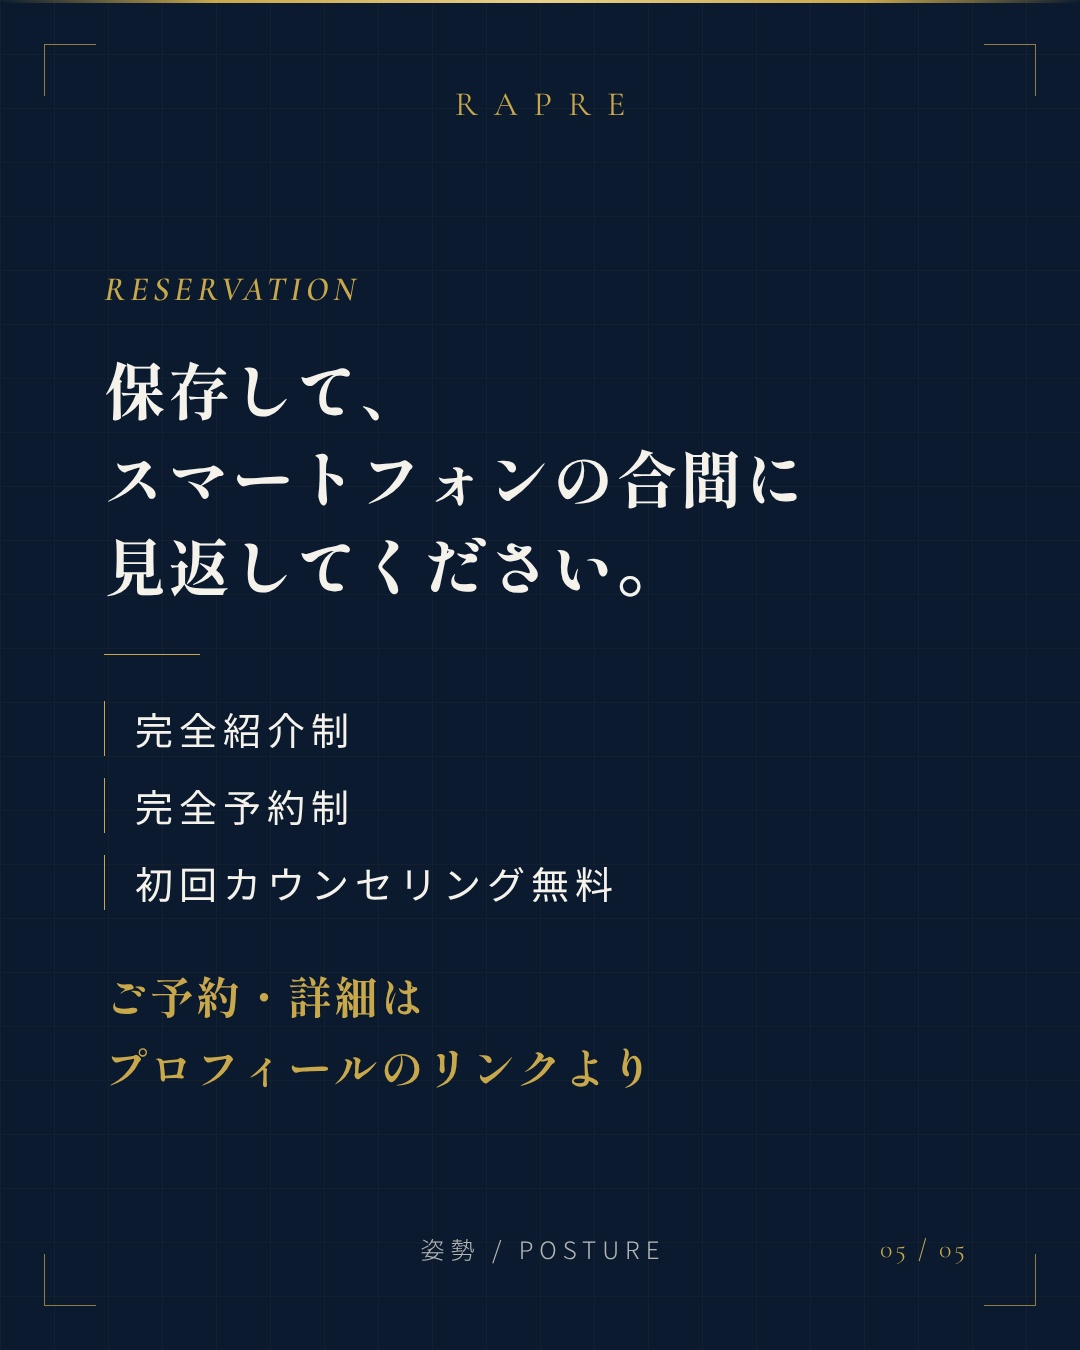
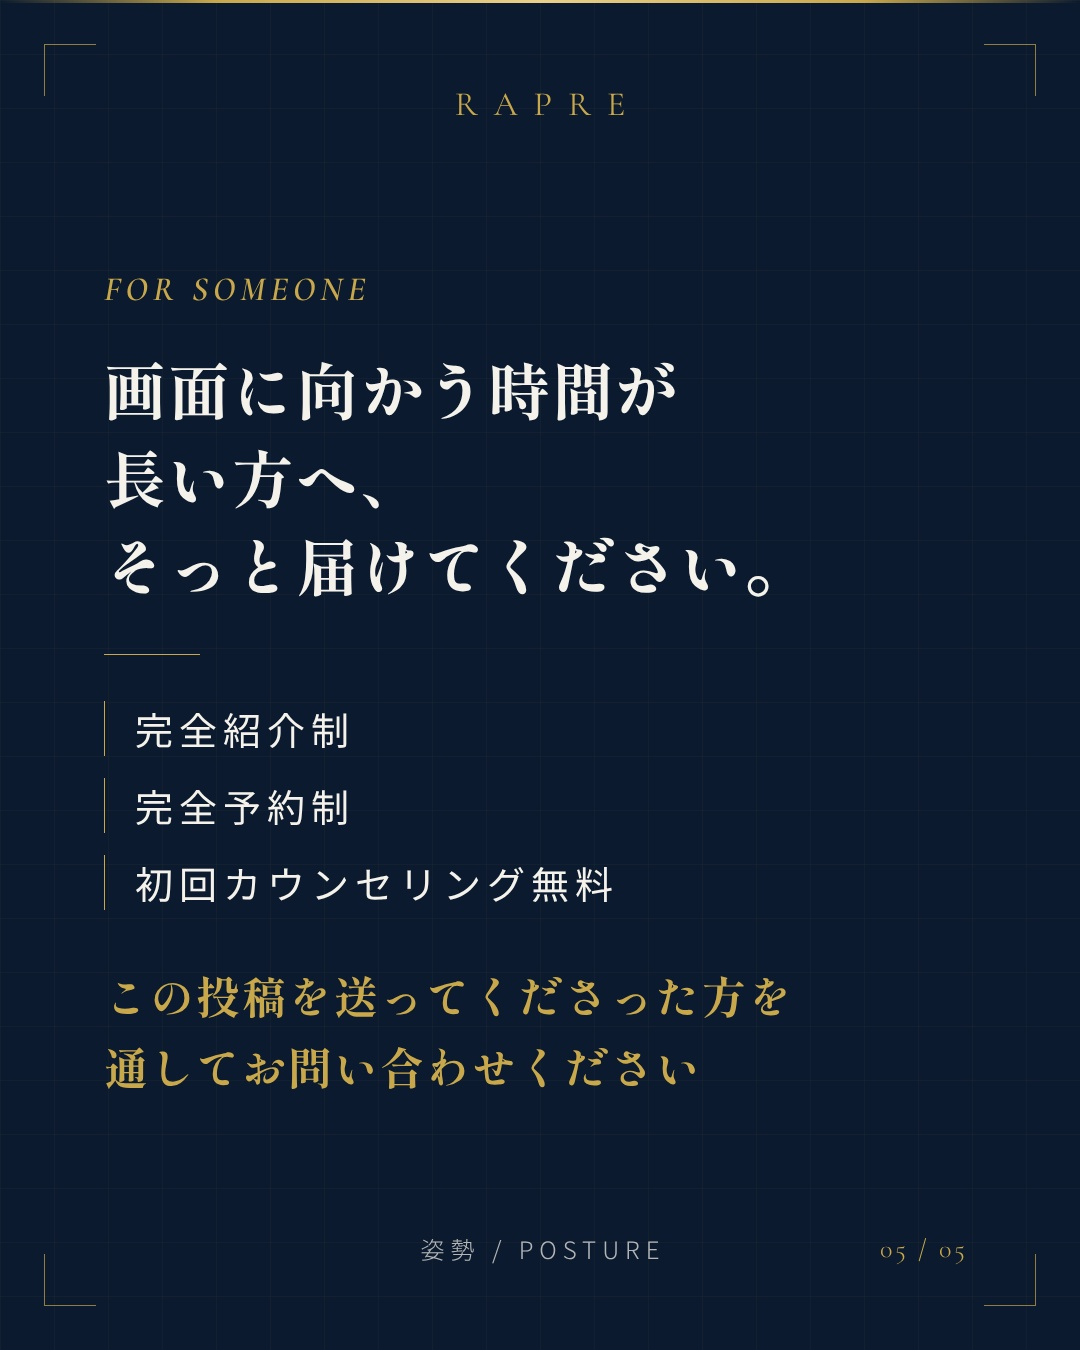
紹介を増やす構成へ変更: 月20時カルーセル/木20時リール、紹介カード、検査スクリプト
Claude-Session: https://claude.ai/code/session_019u1u4bunc16dMiAvHHNoWE

diff --git a/automation/rapre.md b/automation/rapre.md
@@ -1,10 +1,19 @@
 # Rapre Instagram 自動投稿 手順書
 
 この手順書は、無人の定期実行が毎回読み、次の投稿枠1回分を生成・予約するためのものです。
+（2026-10-13改定：既存のお客様からのご紹介を増やす構成へ変更）
+
+## 0. このアカウントの目的
+- Rapreは完全紹介制。投稿の役割は「通ってくださっているお客様が、大切な方にDMで送る紹介状」になること。
+- そのため、評価する指標は いいね ではなく、1投稿ごとの シェア÷リーチ、保存÷リーチ、3秒視聴率、フォロー数。
+- 制作の最初に「この投稿を、誰に送ってもらうか」（send_to）を1つ決め、1枚目（1コマ目）はその人の顔が浮かぶ一文にする。
+  例：夕方に肩が上がっている同僚へ／子どもの寝かしつけの後に疲れ切っている友人へ。
 
 ## 1. 投稿枠
-- 毎週 月曜 08:00 と 木曜 21:00（Asia/Tokyo）。
-- 1枠につき3件を同時刻に予約する: 通常投稿（カルーセル5枚）、リール、ストーリーズ。
+- 月曜 20:00：通常投稿（カルーセル5枚）＋ストーリーズ（新着のお知らせ1枚）
+- 木曜 20:00：リール（7〜12秒）＋ストーリーズ（新着のお知らせ1枚）
+- 1枠で同じ内容を複数の形式に重ねて出さない（初動の反応が分散するため）。
+- 投稿時刻は 2026-10-19 から4週間（8本）20:00 で試し、その後に結果で見直す。
 - カテゴリーは次の順で1枠ごとに進める（6枠で1巡）:
   美肌 → 化粧品 → 姿勢 → 健康 → 食事 → カラダの不調
 - 進行状況と過去テーマは automation/rapre-state.json に記録する。
@@ -14,54 +23,75 @@
 - 理念: 関わるすべての人に感動を与える
 - コンセプト: エステを「特別なご褒美」から「健康習慣」へ
 - 独自技術: ボディチューニング（骨盤矯正・筋膜リリース・ストレッチ）
-- 対象: 美容・健康意識の高い40代女性
+- 対象: 美容・健康意識の高い40代女性と、その方が投稿を送る相手
 - 題材の参考: https://note.com/rapre_wellness と https://note.com/synca2025
 
 ## 3. テーマ選定
-- 同じカテゴリーの過去テーマ（state の log）と科学的な切り口が重ならないこと。
-- 候補を3つ以上出し、重複・根拠の弱さ・表現リスクの3観点で3回ふるいにかける。
+- 同じカテゴリーの過去テーマ（state の log と past_themes_before_automation）と科学的な切り口が重ならないこと。
+- 候補を3つ以上出し、重複・根拠の弱さ・表現リスク・「人に送りたくなるか」の4観点で3回ふるいにかける。
 - 根拠は皮膚生理学・筋肉生理学・栄養学の論文や公的機関の情報を、その回に実際に読んで確認できたものだけ使う。
   読めなかった資料、記憶だけの数値は使わない。確認できた根拠が無ければ、そのテーマは捨てる。
-- 研究の限界（対象者、規模、関連か因果か）をスライド3枚目とキャプションに明記する。
-- 毎回、Instagramの最新のアルゴリズム情報を検索して確認する。
+- 研究の限界（対象者、規模、関連か因果か）を根拠のスライド（またはコマ）とキャプションに明記する。
+- 毎回、Instagramの最新のアルゴリズム情報を検索して確認し、この手順書と矛盾する変更があれば最終報告に書く（手順書は勝手に変えない）。
 
 ## 4. 文章の規則
-- 「肌」は「お肌」、「体」は「カラダ」と表記する（カテゴリー名の「美肌」は例外）。
-- 敬語（です・ます調）。上品で静かな語り口。煽らない。
-- 使ってはいけない表現: 治る、改善する、効果がある、解消、必ず、絶対、痩せる、若返る などの断定や効能の保証。
-  医療行為と誤認される表現、他社の誹謗、ビフォーアフターの保証。
+- 「肌」は「お肌」、「体」は「カラダ」と表記する（「美肌」は例外）。強調の太字記号は使わない。
+- 敬語（です・ます調）。上品で静かな語り口。煽らない。AIらしい決まり文句（「いかがでしたか」「〜の秘密」など）を避ける。
+- 使ってはいけない表現: 治る、改善、効果がある、解消、必ず、絶対、痩せる、若返る などの断定や効能の保証。
+  医療行為と誤認される表現、他社の誹謗、ビフォーアフターの保証、お客様の声の創作。
 - キャプション本文は空白を除いて600字以上800字未満（ハッシュタグを除く）。
-  構成: 共感の書き出し → 仕組み → 研究で報告されていること（限界つき）→ Rapreの取り組みと自宅でできること
-  → 4択の質問と「番号でコメントをお寄せください。全て返信します。」→ 保存のすすめ → DMでのシェアのすすめ
-  → 「Rapreは完全紹介制・完全予約制のプライベートサロンです。初回カウンセリングは無料です。ご予約・詳細はプロフィールのリンクよりお問い合わせください。」
-- ハッシュタグは次の5個で固定:
-  #美容サロン #ボディケア #介護脱毛 #白髪脱毛 #ボディチューニング
+  構成: send_to の人の場面から書き出す → 仕組み → 研究で報告されていること（限界つき）→ Rapreの取り組みと自宅でできること
+  → 締め（下の4要素）
+- 締めの4要素（言い回しは毎回変える。直近4回と同じ文は使わない）:
+  1. 問いかけ1つ。選択肢は付けず、読み手の日常の場面を問う（例：「あなたが肩の重さに気づくのは、1日のどの時間でしょうか。コメントでお聞かせください。」）。
+     「全て返信します」「番号でコメント」は使わない（返信は代表本人が自分の言葉で行う）。
+  2. 保存のすすめ。いつ見返すと役に立つかを具体的に書く。
+  3. DMで送るすすめ。send_to の人を具体的に書く（例：「夕方になると肩が上がっている同僚がいたら、この投稿をDMで送ってあげてください。」）。
+  4. 紹介のご案内（ほぼ固定。語尾の調整は可）:
+     「Rapreは完全紹介制・完全予約制のプライベートサロンです。初回カウンセリングは無料です。この投稿を受け取って気になった方は、送ってくださった方を通してお問い合わせください。通ってくださっている方のご予約は、プロフィールのリンクより承ります。」
+- ハッシュタグは5個: テーマに合うタグ4個 ＋ 最後に #ボディチューニング。
+  4個は投稿の主題を表す日本語のタグ（例：#猫背 #デスクワーク #40代美容 #港区エステ）。主題と無関係なタグは付けない。
+  脱毛のタグは脱毛を扱う回だけ（その回は post.json に "hair_removal_topic": true）。
 - 人物写真は使わない。
 
 ## 5. 生成
 1. posts/rapre/<YYYY-MM-DD>_<英語の短い名前>/ を作り、post.json と caption.txt を書く。
-   既存の posts/rapre/2026-10-12_skin/ を型として使う（5枚: hook, text, evidence, text, cta と story）。
+   post.json の必須項目: format（月曜は "carousel"、木曜は "reel"）、send_to、category、slot、story。
+   - carousel: slides 5枚（hook, text, evidence, text, cta）。型は posts/rapre/2026-10-19_posture/。
+     5枚目（cta）は紹介のご案内カード: eyebrow "FOR SOMEONE"、title に send_to の人へ向けた一文、
+     tags に「完全紹介制」「完全予約制」「初回カウンセリング無料」、sub に「この投稿を送ってくださった方を通して<br>お問い合わせください」。
+   - reel: reel.frames に2〜4コマ、各コマに sec（秒）。合計は 7〜12 秒（クロスフェード0.4秒ずつ差し引き）。
+     1コマ目は hook で、結論の一文を大きく（最初の1秒で何の話か分かること）。2コマ目に根拠1つ（evidence か text）、
+     最後のコマは cta（送る相手への一文と紹介のご案内）。各コマの文字は短く、1コマ3秒で読める量にする。
+   - story: 新着のお知らせ（eyebrow "NEW POST"、title は1枚目の一文、sub「新しい投稿を公開しました<br>プロフィールからご覧ください」）。
 2. `npm install` のあと `node tools/render.mjs posts/rapre/<フォルダ>` を実行する。
-   「文字がはみ出しています」と出たら文章を短くして再実行する。
-3. carousel の5枚と reel の数コマを実際に画像として見て、崩れや誤字が無いか確認する。
+   「文字がはみ出しています」「リールの長さが」と出たら直して再実行する。
+3. `node tools/check.mjs posts/rapre/<フォルダ>` を実行し、すべて合格にする。
+4. 書き出した画像（カルーセル5枚、またはリールの全コマ）とストーリーズを実際に画像として見て、崩れや誤字が無いか確認する。
 
 ## 6. 検査（1つでも不合格なら予約しない）
-- 文字数、ハッシュタグ5個、表記（体・肌）、禁止表現、予約動線の文、4択質問と「全て返信します」。
+- tools/check.mjs がすべて合格。
 - スライドの記述が、その回に確認した根拠と一致していること。
-- 不合格を直せない場合は予約せず、理由を最終報告に書いて終了する。
+- 1枚目（1コマ目）が send_to の人に向いた一文になっていること。
+- 不合格を直せない場合は予約せず、理由を最終報告に書いて終了する。誤った内容を公開するより1回休む方がよい。
 
 ## 7. 保存と予約
 1. main に commit して push する。
 2. 画像と動画の公開URLは
    https://raw.githubusercontent.com/rapre-mita0105/rapre-media/main/posts/rapre/<フォルダ>/...
    取得できること（HTTP 200）を確認する。
-3. Metricool（ブランドID 7099534、タイムゾーン Asia/Tokyo）に同時刻で3件予約する。
-   - 通常投稿: instagramData.type=POST、media=carousel/slide_01〜05.jpg、text=caption.txt 全文
-   - リール: type=REEL、media=reel/reel.mp4、videoThumbnailUrl=reel/cover.jpg、text=caption.txt 全文
-   - ストーリーズ: type=STORY、media=story/story.jpg、text は送らない
+3. Metricool（ブランドID 7099534、タイムゾーン Asia/Tokyo）に同時刻で2件予約する。
+   - 月曜: 通常投稿 instagramData.type=POST、media=carousel/slide_01〜05.jpg、text=caption.txt 全文
+   - 木曜: リール type=REEL、media=reel/reel.mp4、videoThumbnailUrl=reel/cover.jpg、text=caption.txt 全文
+   - 両日: ストーリーズ type=STORY、media=story/story.jpg、text は送らない
    すべて autoPublish=true。同じ枠に既に予約がある場合は重複して作らない。
-4. 予約を読み戻して3件あることを確認する。
-5. automation/rapre-state.json の next_index を進め、log に日付・カテゴリー・テーマ・根拠を追記して push する。
+4. 予約を読み戻して2件あることを確認する。
+5. automation/rapre-state.json の next_index と next_slot を進め、log に日付・形式・カテゴリー・テーマ・send_to・根拠を追記して push する。
 
-## 8. 対象外
+## 8. 振り返り（毎回）
+- 予約の前に、直近に公開された投稿の数値をMetricoolで取得し（リーチ、保存、シェア、コメント、フォロー、リールは3秒視聴率と平均視聴時間）、
+  state の metrics に追記する。数値は判断材料として最終報告に短く載せる。手順書の変更は代表の判断で行う。
+
+## 9. 対象外
 - コメントへの返信は代表本人が行う。自動では返信しない。
+- ストーリーズの投票・質問スタンプ、協力者とのコラボ投稿、代表本人の一人称の投稿は手動で行う。
